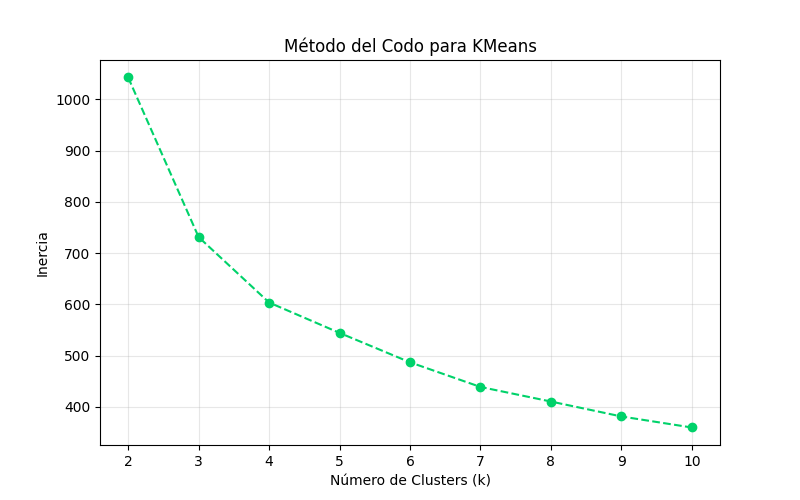
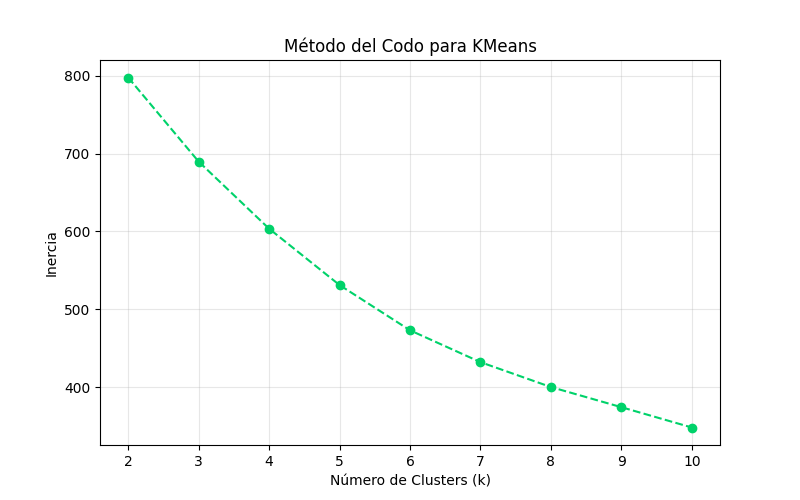
fix: make pipelines 3 and 5 self-contained by loading data directly from CSV

diff --git a/pipelines/phase_5_evaluation.py b/pipelines/phase_5_evaluation.py
@@ -1,9 +1,9 @@
 import os
 import sys
-import joblib
-import pandas as pd
 sys.path.append(os.path.dirname(os.path.dirname(os.path.abspath(__file__))))
 
+from src.data_loader import load_data
+from src.preprocessor import PenaltyPreprocessor, split_data
 from src.evaluator import evaluate_classifier, evaluate_clustering
 from src.clustering import PenaltyClustering
 from src.classifier import PenaltyClassifier
@@ -23,11 +23,15 @@ def run_evaluation():
     clustering = PenaltyClustering()
     clustering.load_model(os.path.join(models_dir, 'kmeans_model.pkl'))
 
-    # 2. Cargar datos de test
-    processed_dir = os.path.join(base_dir, 'outputs', 'processed')
-    X_test = pd.read_pickle(os.path.join(processed_dir, 'X_test.pkl'))
-    y_test = pd.read_pickle(os.path.join(processed_dir, 'y_test.pkl'))
-    X_train = pd.read_pickle(os.path.join(processed_dir, 'X_train.pkl'))
+    # 2. Cargar y preprocesar datos para test
+    print("Cargando y preprocesando datos...")
+    df = load_data(os.path.join(base_dir, 'data', 'WorldCupShootouts.csv'))
+    df['Keeper'] = df['Keeper'].astype(str).str.upper()
+    df['Foot'] = df['Foot'].astype(str).str.upper()
+
+    preprocessor = PenaltyPreprocessor()
+    X, y = preprocessor.fit_transform(df)
+    (X_train, y_train), (X_val, y_val), (X_test, y_test) = split_data(X, y)
 
     # 3. Inyectar cluster en test
     X_test_clustered = X_test.copy()

diff --git a/pipelines/phase_3_clustering.py b/pipelines/phase_3_clustering.py
@@ -1,8 +1,9 @@
 import os
 import sys
-import pandas as pd
 sys.path.append(os.path.dirname(os.path.dirname(os.path.abspath(__file__))))
 
+from src.data_loader import load_data
+from src.preprocessor import PenaltyPreprocessor, split_data
 from src.clustering import PenaltyClustering
 from src.evaluator import evaluate_clustering
 
@@ -10,9 +11,15 @@ def run_clustering():
     print("Ejecutando pipeline de clustering K-Means...")
     base_dir = os.path.dirname(os.path.dirname(os.path.abspath(__file__)))
 
-    # 1. Cargar datos preprocesados
-    processed_dir = os.path.join(base_dir, 'outputs', 'processed')
-    X_train = pd.read_pickle(os.path.join(processed_dir, 'X_train.pkl'))
+    # 1. Cargar y preprocesar datos
+    print("Cargando y preprocesando datos...")
+    df = load_data(os.path.join(base_dir, 'data', 'WorldCupShootouts.csv'))
+    df['Keeper'] = df['Keeper'].astype(str).str.upper()
+    df['Foot'] = df['Foot'].astype(str).str.upper()
+
+    preprocessor = PenaltyPreprocessor()
+    X, y = preprocessor.fit_transform(df)
+    (X_train, y_train), (X_val, y_val), (X_test, y_test) = split_data(X, y)
 
     # 2. Entrenar clustering
     print("Entrenando K-Means con 4 clusters...")
